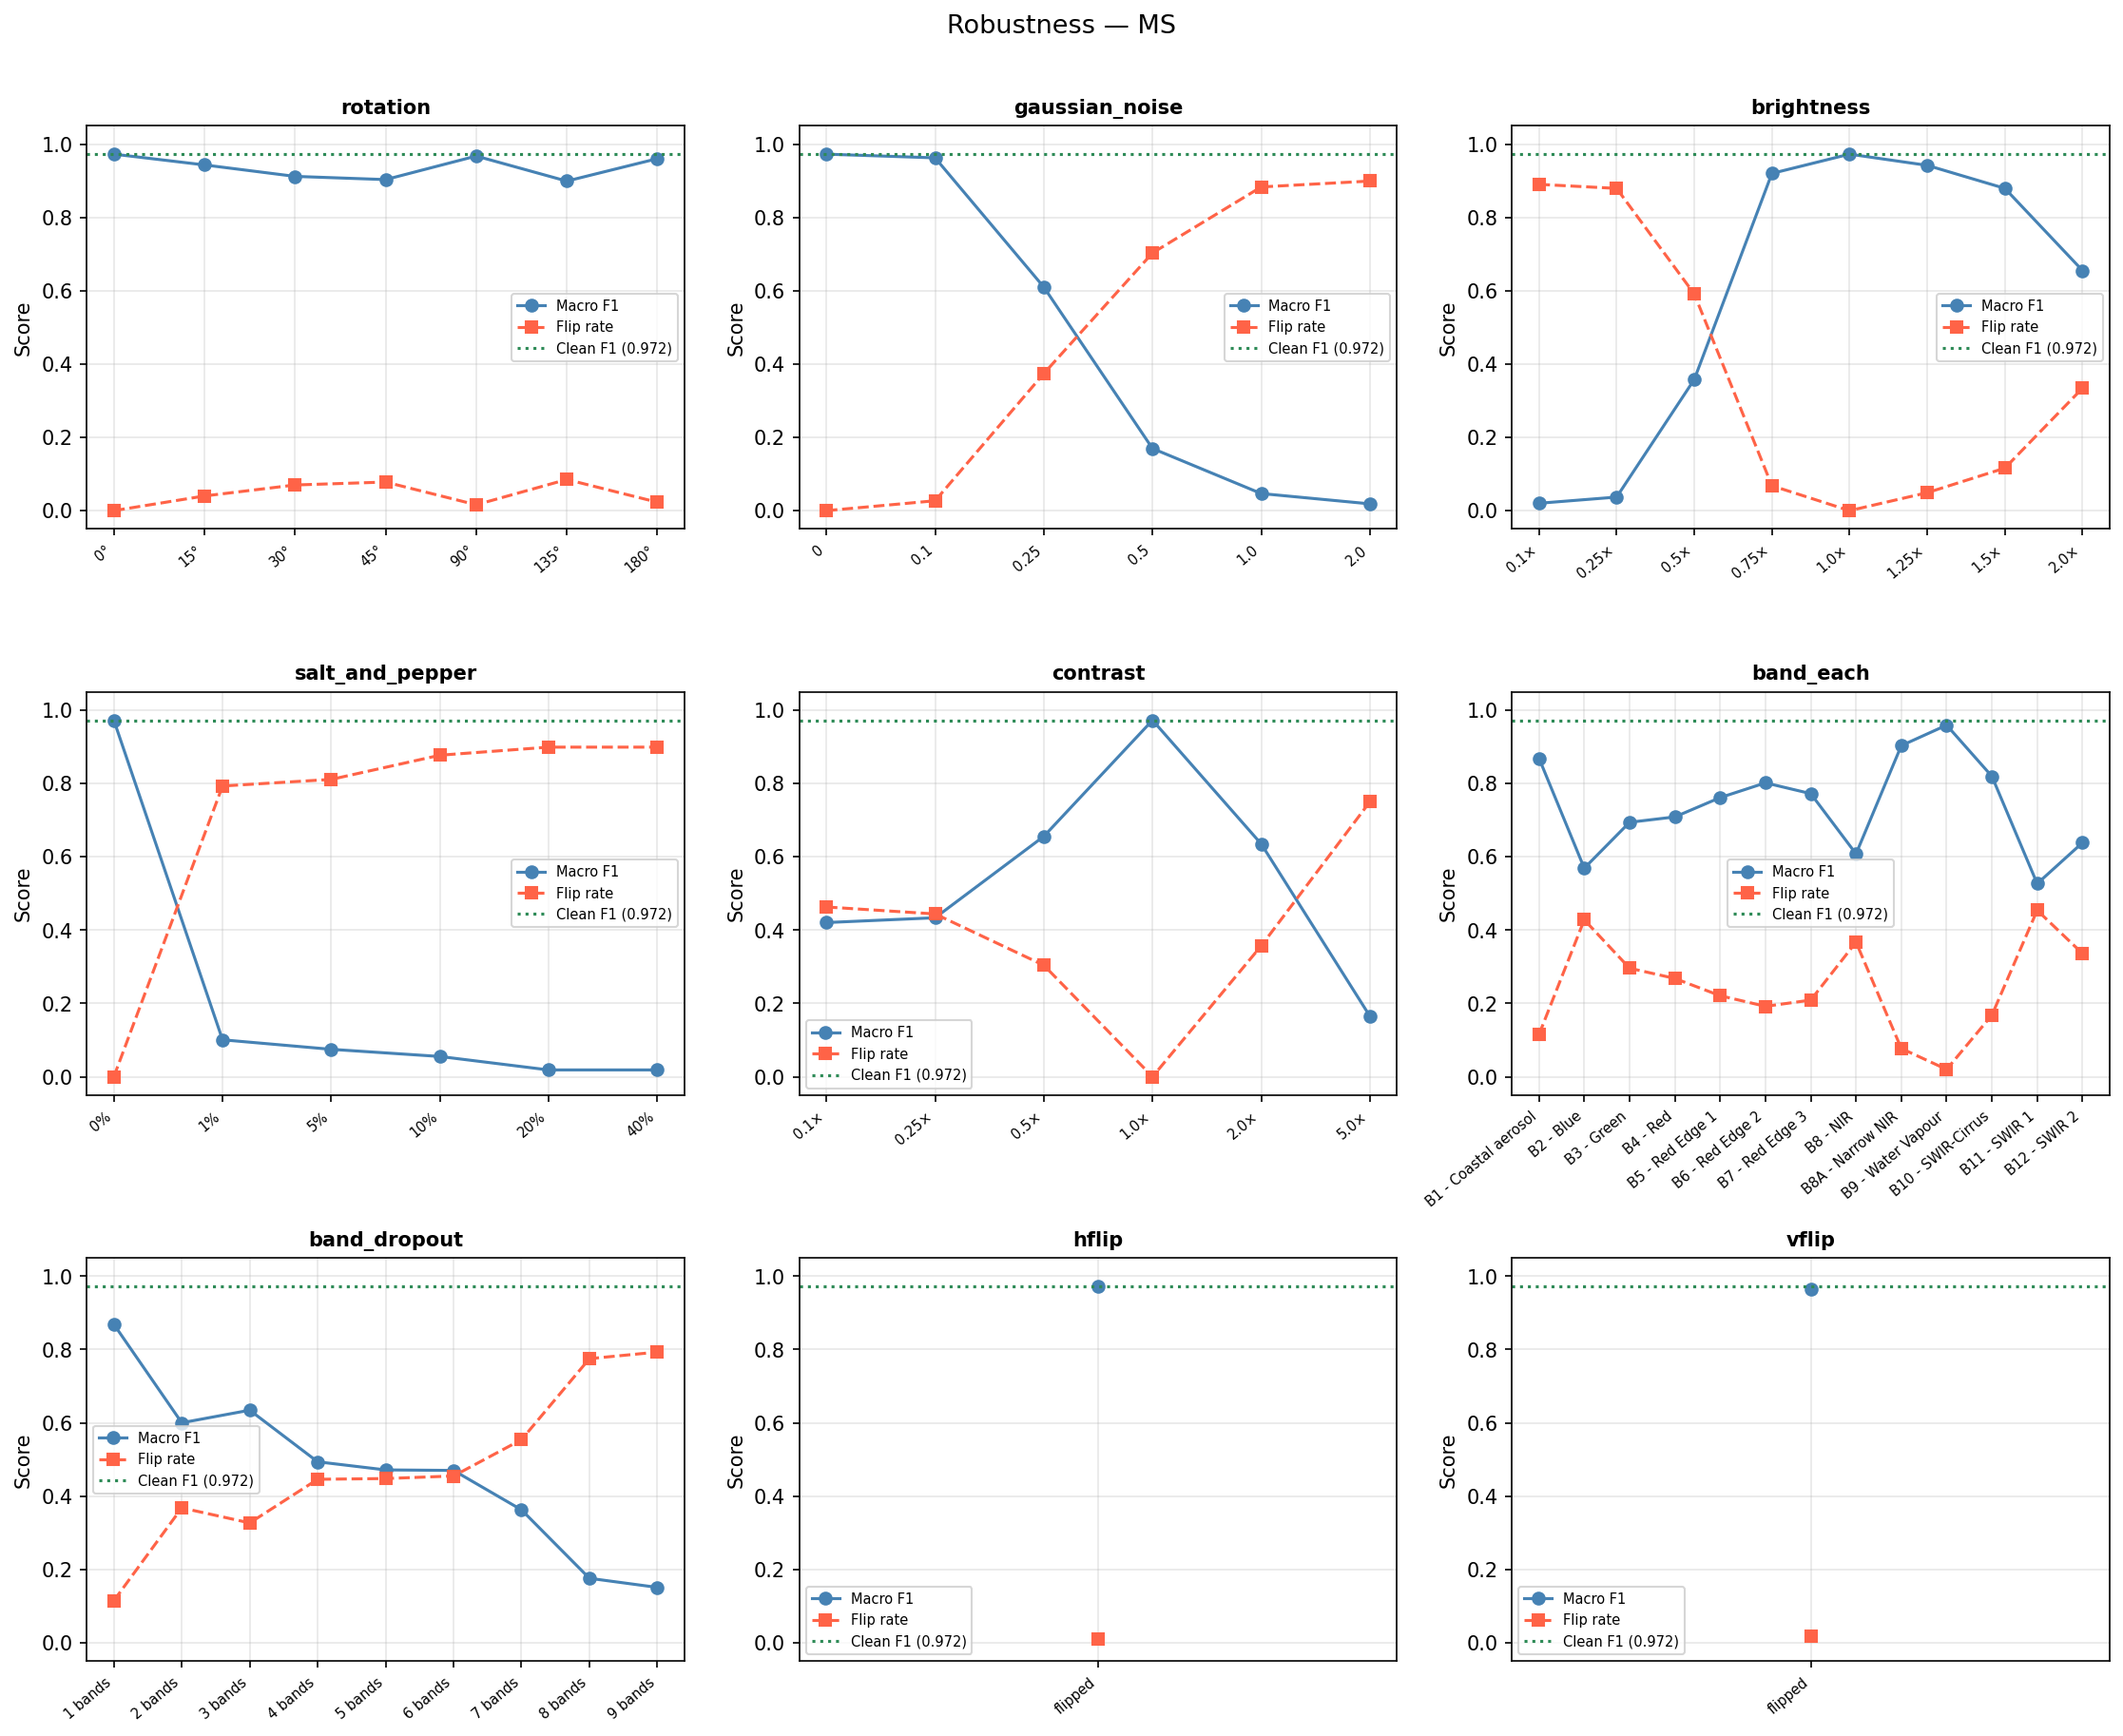
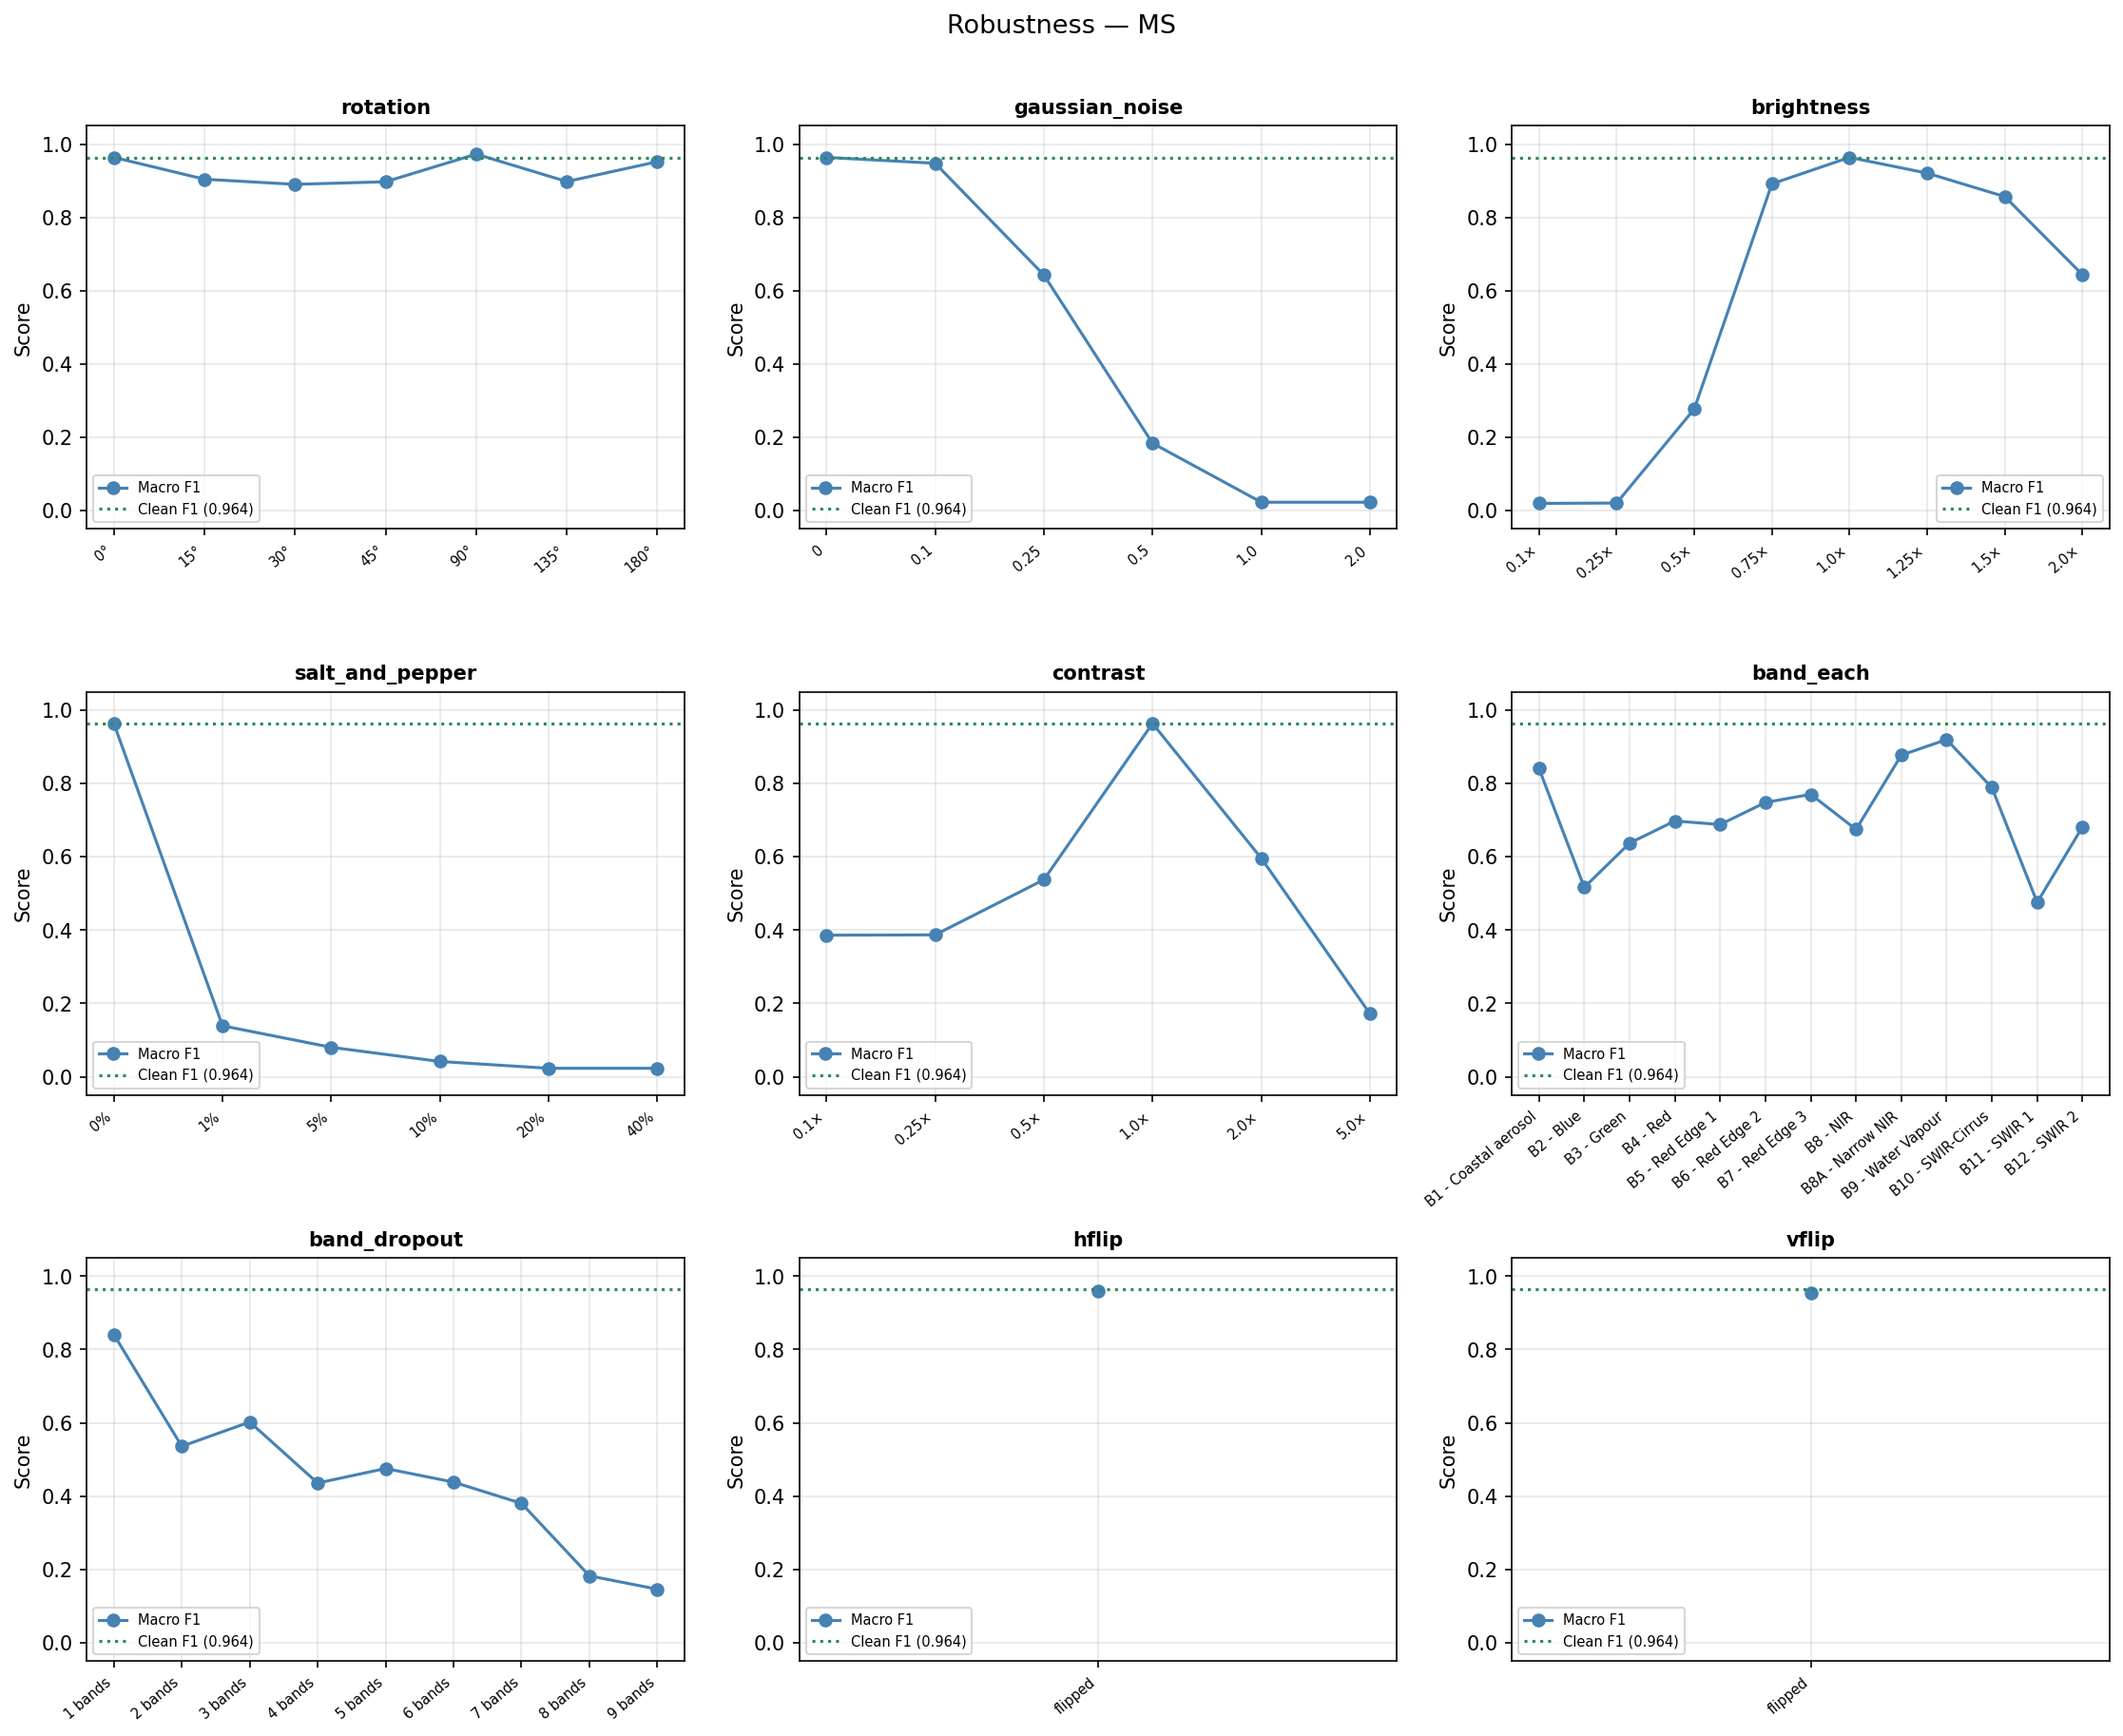
fix: Remove flip rate since it only mirrors macro f1 and is not useful

diff --git a/eurosat_classification/robustness/run_robustness.py b/eurosat_classification/robustness/run_robustness.py
@@ -107,7 +107,7 @@ def run_suite(model, dataset, specs, device, batch_size, seed) -> list[dict]:
     """Evaluate model on the clean dataset and on each perturbation level.
 
     Returns a list of dicts with keys: perturbation, severity_label, severity_value,
-    f1, mean_confidence, flip_rate.
+    f1, mean_confidence.
     """
     model.eval()
 
@@ -118,26 +118,24 @@ def run_suite(model, dataset, specs, device, batch_size, seed) -> list[dict]:
 
     rows = [{"perturbation": "clean", "severity_label": "—", "severity_value": "",
              "f1": round(clean["f1"], 6),
-             "mean_confidence": round(clean["mean_confidence"], 6),
-             "flip_rate": 0.0}]
+             "mean_confidence": round(clean["mean_confidence"], 6)}]
 
     for spec in specs:
         print(f"  [{spec.name}] …", flush=True)
         for i, sev in enumerate(spec.severities):
-            result = evaluate(model, dataset, spec.fn(sev), device, clean_preds, seed, batch_size)
+            result = evaluate(model, dataset, spec.fn(sev), device, seed, batch_size)
             lbl = spec.label(i)
             rows.append({"perturbation": spec.name, "severity_label": lbl,
                          "severity_value": sev,
                          "f1": round(result["f1"], 6),
-                         "mean_confidence": round(result["mean_confidence"], 6),
-                         "flip_rate": round(result["flip_rate"], 6)})
-            print(f"    {lbl:<16}  f1={result['f1']:.4f}  flip={result['flip_rate']:.4f}", flush=True)
+                         "mean_confidence": round(result["mean_confidence"], 6)})
+            print(f"    {lbl:<16}  f1={result['f1']:.4f}", flush=True)
 
     return rows
 
 
 def plot_results(rows: list[dict], clean_f1: float, modality: str, path: Path) -> None:
-    """Save a multi-panel figure with macro-F1 and flip-rate curves per perturbation.
+    """Save a multi-panel figure with macro-F1 curves per perturbation.
 
     Args:
         rows: Perturbed rows (clean row excluded).
@@ -158,8 +156,6 @@ def plot_results(rows: list[dict], clean_f1: float, modality: str, path: Path) -
     for ax, (name, data) in zip(axes_flat, by_perturb.items()):
         x = list(range(len(data)))
         ax.plot(x, [d["f1"] for d in data], marker="o", color="steelblue", label="Macro F1")
-        ax.plot(x, [d["flip_rate"] for d in data], marker="s", linestyle="--",
-                color="tomato", label="Flip rate")
         ax.axhline(clean_f1, color="seagreen", linestyle=":", linewidth=1.5,
                    label=f"Clean F1 ({clean_f1:.3f})")
         ax.set_xticks(x)
@@ -207,7 +203,7 @@ def run_for_modality(modality, data_root, test_csv, max_samples, device, batch_s
     csv_path = out_dir / f"robustness_{modality}.csv"
     with csv_path.open("w", newline="") as f:
         writer = csv.DictWriter(f, fieldnames=["perturbation", "severity_label", "severity_value",
-                                               "f1", "mean_confidence", "flip_rate"])
+                                               "f1", "mean_confidence"])
         writer.writeheader()
         writer.writerows(rows)
     print(f"Saved CSV:  {csv_path.resolve()}")

diff --git a/eurosat_classification/robustness/evaluate.py b/eurosat_classification/robustness/evaluate.py
@@ -36,7 +36,6 @@ def evaluate(
     dataset: Dataset,
     perturb_fn: Callable | None,
     device: torch.device,
-    clean_preds: list[int] | None = None,
     seed: int = 42,
     batch_size: int = 64,
 ) -> dict:
@@ -47,14 +46,12 @@ def evaluate(
         dataset: Test dataset (un-perturbed raw version).
         perturb_fn: Applied to each image tensor before inference. None = clean run.
         device: Torch device.
-        clean_preds: If provided, compute prediction-flip rate against this baseline.
         seed: Base random seed for stochastic perturbations.
         batch_size: DataLoader batch size (num_workers=0 to respect per-sample seeds).
 
     Returns:
         dict with keys:
             f1 (float), mean_confidence (float),
-            flip_rate (float | None), preds (list[int])
     """
     eval_ds = _PerturbedDataset(dataset, perturb_fn, seed) if perturb_fn is not None else dataset
     loader = DataLoader(eval_ds, batch_size=batch_size, shuffle=False, num_workers=0)
@@ -76,14 +73,8 @@ def evaluate(
     n = len(all_labels)
     macro_f1 = f1_score(all_labels, all_preds, average="macro")
     mean_confidence = sum(all_confs) / n
-    flip_rate = (
-        sum(p != c for p, c in zip(all_preds, clean_preds)) / n
-        if clean_preds is not None
-        else None
-    )
     return {
         "f1": macro_f1,
         "mean_confidence": mean_confidence,
-        "flip_rate": flip_rate,
         "preds": all_preds,
     }

diff --git a/eurosat_classification/robustness/perturbations.py b/eurosat_classification/robustness/perturbations.py
@@ -26,7 +26,7 @@ def noise_rgb(img: torch.Tensor, sigma: float) -> torch.Tensor:
 
 def brightness_rgb(img: torch.Tensor, factor: float) -> torch.Tensor:
     """Scale all pixel values by factor; simulates lighting change."""
-    return torch.clamp(img * factor, 0.0, 1.0)
+    return TF.adjust_brightness(img, factor)
 
 
 def salt_pepper_rgb(img: torch.Tensor, density: float) -> torch.Tensor:
@@ -52,8 +52,7 @@ def vflip(img: torch.Tensor) -> torch.Tensor:
     return TF.vflip(img)
 
 
-# ── MS perturbations (z-score space) ─────────────────────────────────────────
-
+# ── MS perturbations  ─────────────────────────────────────────
 
 def rotate_ms(img: torch.Tensor, degrees: float) -> torch.Tensor:
     """Rotate by a fixed angle; border filled with 0 (≈ band mean in z-score space)."""
